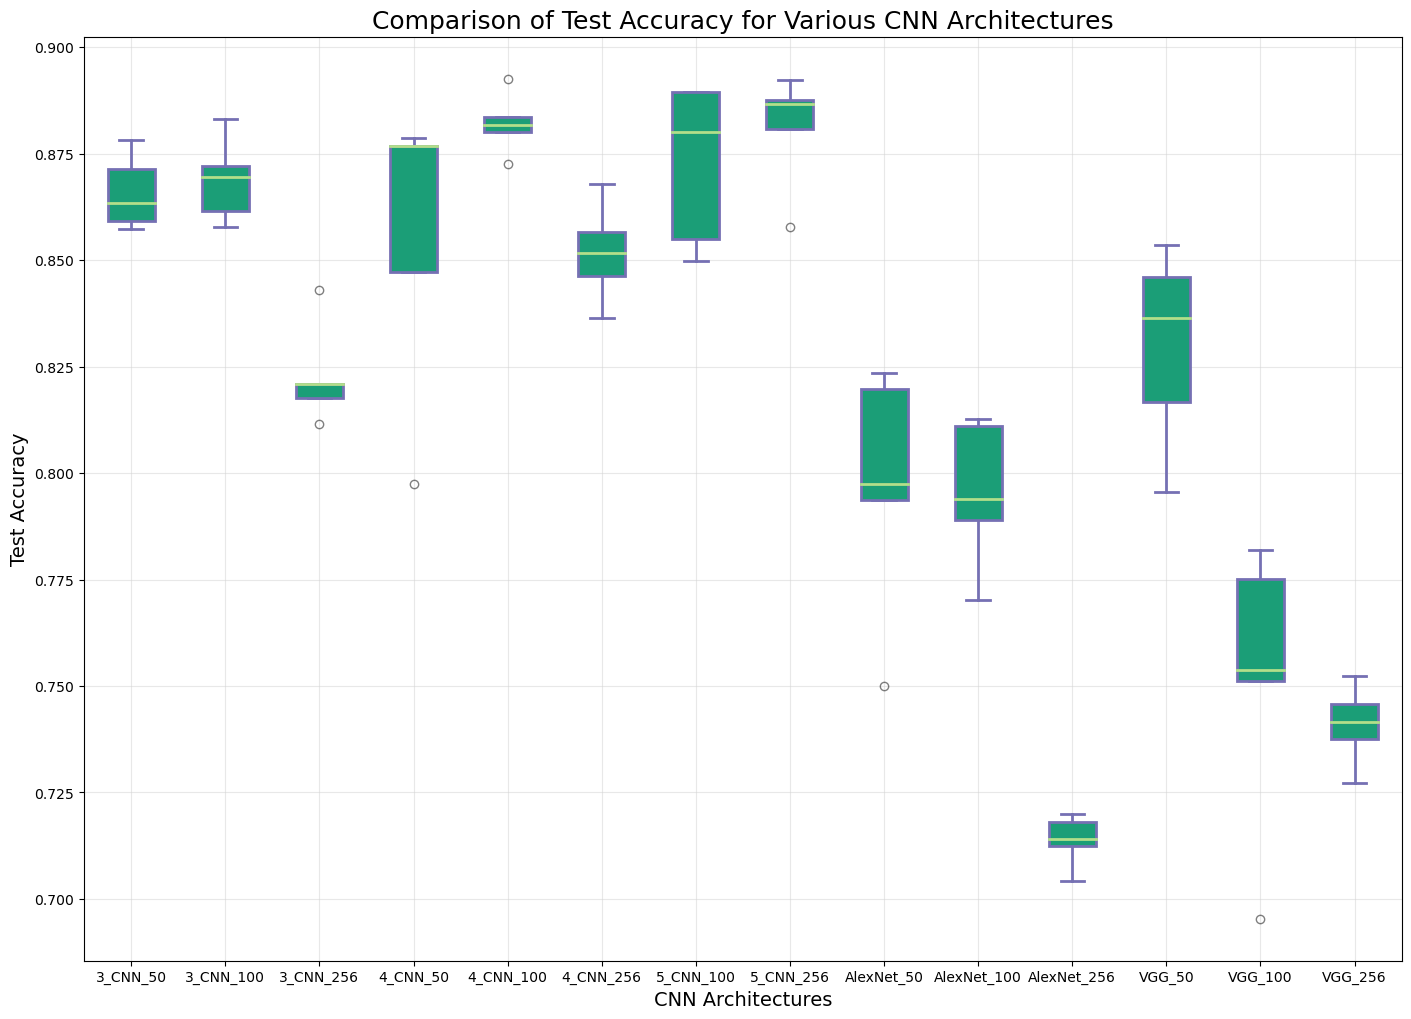
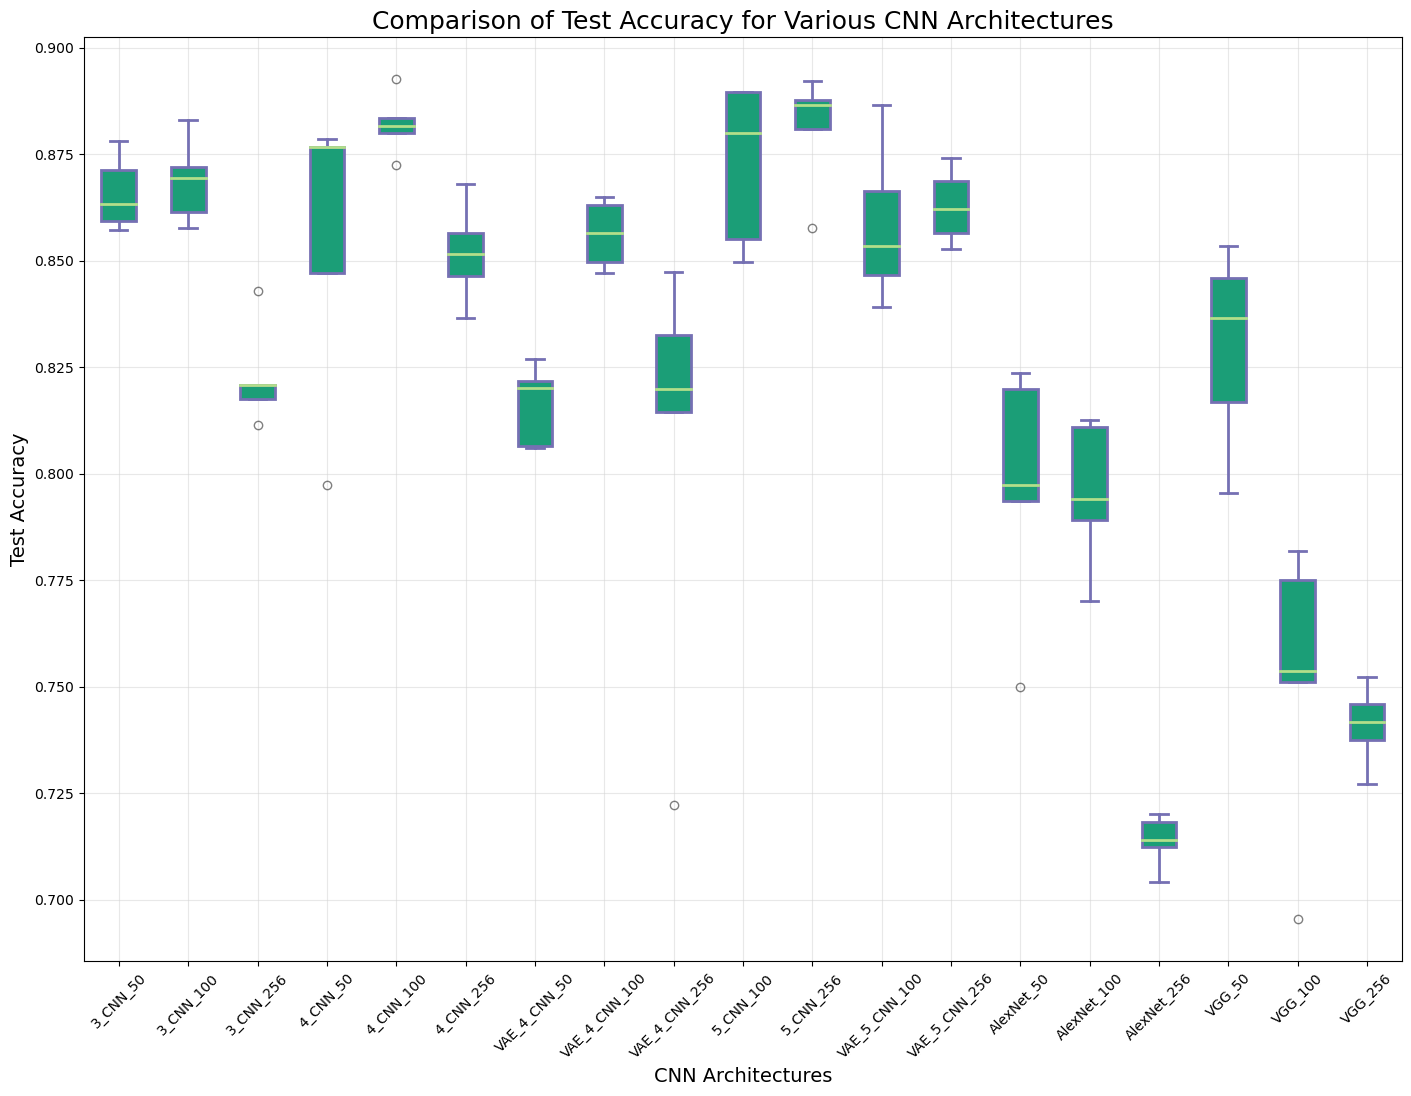
Added dataset choise

diff --git a/plots/Heat_Map_F1Score_Class.py b/plots/Heat_Map_F1Score_Class.py
@@ -6,19 +6,20 @@ import matplotlib.pyplot as plt
 
 classes = ["Agriculture", "Barren_Land", "Brick_Kilns", "Forest_Orchard", "Industry", "Roads", "Urban",
           "Urban_Green_Space", "Water"]
-architectures = ['3_CNN_50', '3_CNN_100', '3_CNN_256', '4_CNN_50', '4_CNN_100', '4_CNN_256', '5_CNN_100', '5_CNN_256',
-                'AlexNet_50', 'AlexNet_100', 'AlexNet_256', 'VGG16_50', 'VGG16_100', 'VGG16_256']
+architectures = ['3_CNN_50', '3_CNN_100', '3_CNN_256', '4_CNN_50', '4_CNN_100', '4_CNN_256', 'VAE_4_CNN_50',
+                 'VAE_4_CNN_100', 'VAE_4_CNN_256', '5_CNN_100', '5_CNN_256', 'VAE_5_CNN_100', 'VAE_5_CNN_256',
+                 'AlexNet_50', 'AlexNet_100', 'AlexNet_256', 'VGG16_50', 'VGG16_100', 'VGG16_256']
 # f1_score = []
 
-f1_score = np.array([[0.94, 0.95, 0.92, 0.94, 0.95, 0.94, 0.93, 0.95, 0.92, 0.91, 0.86, 0.93, 0.90, 0.89],
-                     [0.76, 0.76, 0.72, 0.75, 0.78, 0.73, 0.78, 0.77, 0.61, 0.61, 0.38, 0.64, 0.51, 0.49],
-                     [0.81, 0.82, 0.78, 0.79, 0.84, 0.81, 0.85, 0.84, 0.71, 0.71, 0.57, 0.79, 0.62, 0.55],
-                     [0.93, 0.93, 0.92, 0.94, 0.95, 0.94, 0.91, 0.95, 0.91, 0.91, 0.89, 0.93, 0.92, 0.89],
-                     [0.74, 0.74, 0.62, 0.72, 0.77, 0.69, 0.72, 0.76, 0.60, 0.59, 0.46, 0.66, 0.47, 0.50],
-                     [0.66, 0.65, 0.58, 0.64, 0.68, 0.59, 0.73, 0.68, 0.51, 0.47, 0.25, 0.52, 0.41, 0.35],
-                     [0.85, 0.85, 0.76, 0.83, 0.86, 0.81, 0.81, 0.86, 0.76, 0.75, 0.64, 0.80, 0.69, 0.69],
-                     [0.71, 0.71, 0.61, 0.71, 0.75, 0.67, 0.76, 0.72, 0.59, 0.59, 0.47, 0.62, 0.45, 0.44],
-                     [0.97, 0.98, 0.97, 0.96, 0.97, 0.98, 0.97, 0.98, 0.95, 0.93, 0.90, 0.97, 0.94, 0.93]])
+f1_score = np.array([[0.94, 0.95, 0.92, 0.94, 0.95, 0.94, 0.92, 0.93, 0.91, 0.93, 0.95, 0.93, 0.94, 0.92, 0.91, 0.86, 0.93, 0.90, 0.89],
+                     [0.76, 0.76, 0.72, 0.75, 0.78, 0.73, 0.66, 0.70, 0.65, 0.78, 0.77, 0.70, 0.73, 0.61, 0.61, 0.38, 0.64, 0.51, 0.49],
+                     [0.81, 0.82, 0.78, 0.79, 0.84, 0.81, 0.77, 0.81, 0.73, 0.85, 0.84, 0.81, 0.82, 0.71, 0.71, 0.57, 0.79, 0.62, 0.55],
+                     [0.93, 0.93, 0.92, 0.94, 0.95, 0.94, 0.90, 0.92, 0.90, 0.91, 0.95, 0.92, 0.93, 0.91, 0.91, 0.89, 0.93, 0.92, 0.89],
+                     [0.74, 0.74, 0.62, 0.72, 0.77, 0.69, 0.70, 0.77, 0.66, 0.72, 0.76, 0.77, 0.78, 0.60, 0.59, 0.46, 0.66, 0.47, 0.50],
+                     [0.66, 0.65, 0.58, 0.64, 0.68, 0.59, 0.59, 0.66, 0.51, 0.73, 0.68, 0.68, 0.68, 0.51, 0.47, 0.25, 0.52, 0.41, 0.35],
+                     [0.85, 0.85, 0.76, 0.83, 0.86, 0.81, 0.83, 0.86, 0.80, 0.81, 0.86, 0.87, 0.86, 0.76, 0.75, 0.64, 0.80, 0.69, 0.69],
+                     [0.71, 0.71, 0.61, 0.71, 0.75, 0.67, 0.68, 0.70, 0.62, 0.76, 0.72, 0.71, 0.71, 0.59, 0.59, 0.47, 0.62, 0.45, 0.44],
+                     [0.97, 0.98, 0.97, 0.96, 0.97, 0.98, 0.85, 0.80, 0.69, 0.97, 0.98, 0.79, 0.84, 0.95, 0.93, 0.90, 0.97, 0.94, 0.93]])
 
 
 def heatmap(data, row_labels, col_labels, ax=None,

diff --git a/plots/Interquartile_Display.py b/plots/Interquartile_Display.py
@@ -21,8 +21,13 @@ CNN_3_test_acc_256 = [0.820940819, 0.820940819, 0.811456753, 0.817526555, 0.8429
 CNN_4_test_acc_50 = [0.847116844, 0.878603945, 0.797420334, 0.876707132, 0.876707132]
 CNN_4_test_acc_100 = [0.872534143, 0.880121396, 0.892640364, 0.881638847, 0.88353566]
 CNN_4_test_acc_256 = [0.836494689, 0.85660091, 0.851669196, 0.846358118, 0.867981791]
+VAE_CNN_4_test_acc_50 = [0.820182094, 0.821699545, 0.806525038, 0.827010622, 0.806145675]
+VAE_CNN_4_test_acc_100 = [0.85660091, 0.849772382, 0.863050076, 0.864946889, 0.847116844]
+VAE_CNN_4_test_acc_256 = [0.819802731, 0.722306525, 0.832701062, 0.847496206, 0.814491654]
 CNN_5_test_acc_100 = [0.880121396, 0.889605463, 0.85508346, 0.889605463, 0.849772382]
 CNN_5_test_acc_256 = [0.886570561, 0.880880121, 0.857738998, 0.892261002, 0.887708649]
+VAE_CNN_5_test_acc_100 = [0.846737481, 0.886570561, 0.853566009, 0.86646434, 0.839150228]
+VAE_CNN_5_test_acc_256 = [0.874051593, 0.85660091, 0.862291351, 0.868740516, 0.852807284]
 AlexNet_50 = [0.819802731, 0.75, 0.797420334, 0.823596358, 0.793626707]
 AlexNet_100 = [0.789074355, 0.770106222, 0.812594841, 0.79400607, 0.81107739]
 AlexNet_256 = [0.718133536, 0.704097117, 0.713960546, 0.720030349, 0.712443096]
@@ -31,7 +36,9 @@ VGG_100 = [0.781866464, 0.775037936, 0.695371775, 0.753793627, 0.751138088]
 VGG_256 = [0.752276176, 0.741654021, 0.745827011, 0.72723824, 0.737481032]
 data_to_plot = [CNN_3_test_acc_50, CNN_3_test_acc_100, CNN_3_test_acc_256,
                 CNN_4_test_acc_50, CNN_4_test_acc_100, CNN_4_test_acc_256,
+                VAE_CNN_4_test_acc_50, VAE_CNN_4_test_acc_100, VAE_CNN_4_test_acc_256,
                 CNN_5_test_acc_100, CNN_5_test_acc_256,
+                VAE_CNN_5_test_acc_100, VAE_CNN_5_test_acc_256,
                 AlexNet_50, AlexNet_100, AlexNet_256,
                 VGG_50, VGG_100, VGG_256]
 
@@ -77,9 +84,11 @@ for flier in bp['fliers']:
 # Custom x-axis labels
 ax.set_xticklabels(['3_CNN_50', '3_CNN_100', '3_CNN_256',
                     '4_CNN_50', '4_CNN_100', '4_CNN_256',
+                    'VAE_4_CNN_50', 'VAE_4_CNN_100', 'VAE_4_CNN_256',
                     '5_CNN_100', '5_CNN_256',
+                    'VAE_5_CNN_100', 'VAE_5_CNN_256',
                     'AlexNet_50', 'AlexNet_100', 'AlexNet_256',
-                    'VGG_50', 'VGG_100', 'VGG_256'])
+                    'VGG_50', 'VGG_100', 'VGG_256'], rotation=45)
 
 # Custom axis labels
 ax.set_axisbelow(True)

diff --git a/Main.py b/Main.py
@@ -50,6 +50,8 @@ def arguments():
                                                                     "5. VGG16, 6. 5_CNN_2")
     parser.add_argument("--load-model", default=False)
     parser.add_argument("--random-state", type=int, default=21)
+    parser.add_argument("--dataset", type=int, default=2, help="1. Training_Data_2018_2014, "
+                                                               "2. VAE_Training_Data_2018_2014")
 
     return parser.parse_args()
 
@@ -129,7 +131,13 @@ def main():
         print("Running on the CPU")
 
     transforms = Compose([Resize((args.height, args.width)), ToTensor()])
-    dataset = ImageFolder("VAE_Training_Data_2018_2014", transform=transforms)
+    if args.dataset == 1:
+        dataset = ImageFolder("Training_Data_2018_2014", transform=transforms)
+        print("Dataset: Training_Data_2018_2014")
+    else:
+        dataset = ImageFolder("VAE_Training_Data_2018_2014", transform=transforms)
+        print("Dataset: VAE_Training_Data_2018_2014")
+
     LABELS = dataset.classes
     input_size = dataset[0][0].shape
     X1, y1 = dataset, dataset.targets

diff --git a/models/Layers.py b/models/Layers.py
@@ -59,7 +59,7 @@ class ConvLayer(nn.Module):
 
         return conv_block, (out_channels, out_h, out_w)
 
-    def _add_layer2(in_channels, out_channels, kernel_size, _input_size, stride=1, padding=0, dilation=1):
+    def _add_layer2(in_channels, out_channels, kernel_size, _input_size, stride=1                                                   , padding=0, dilation=1):
         """
         :param out_channels:
         :param kernel_size:
